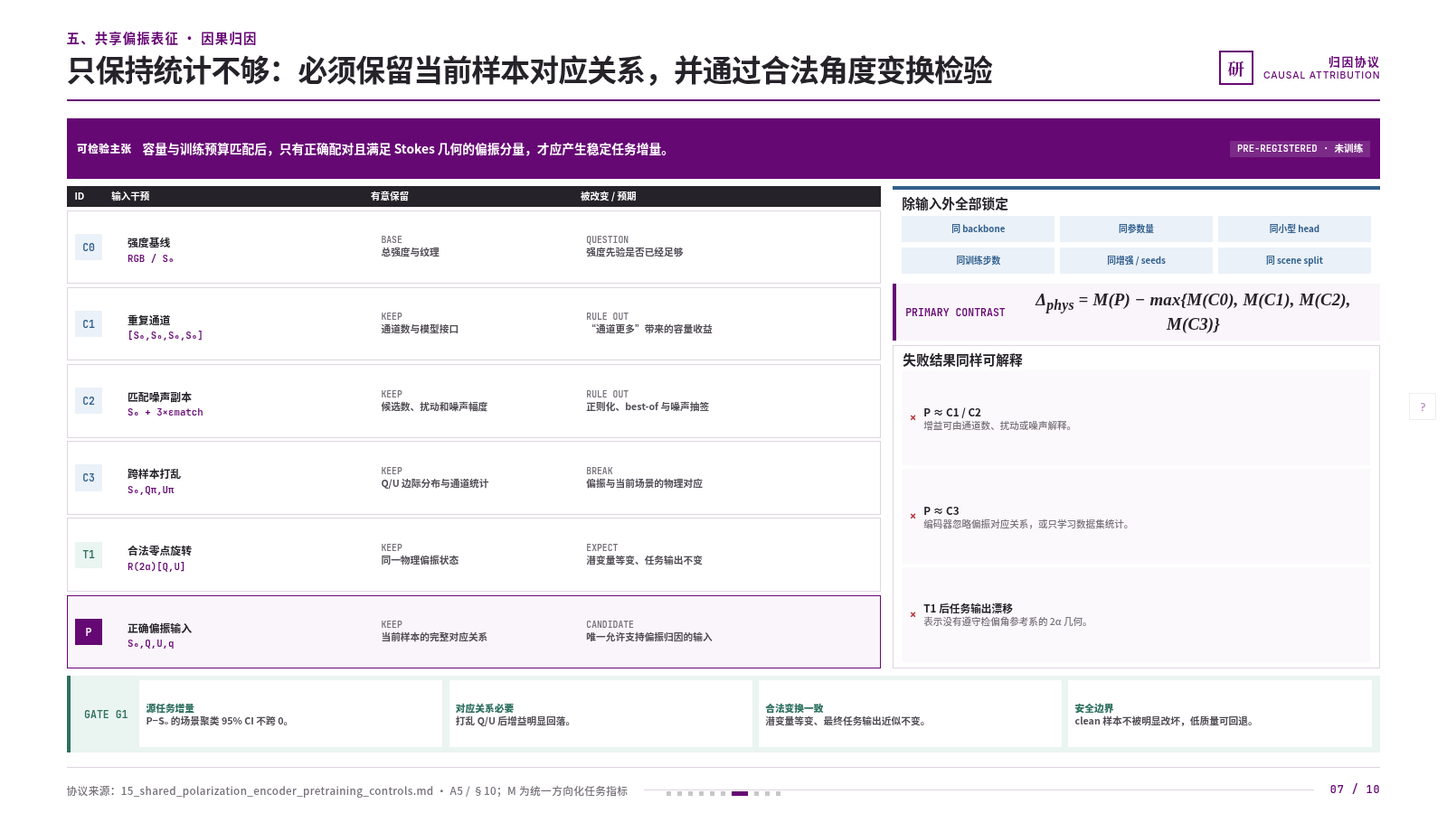
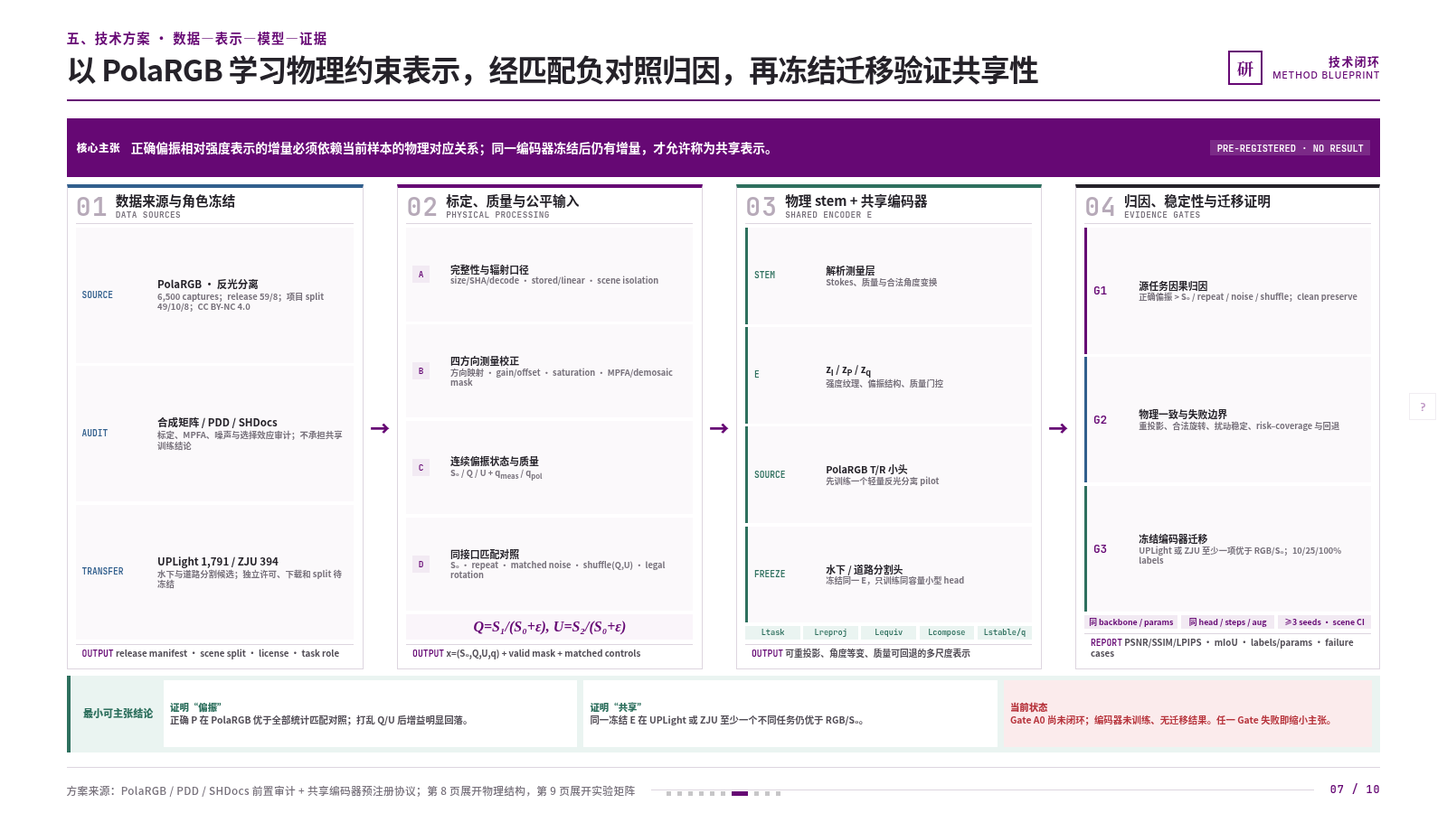
docs: add end-to-end method blueprint

diff --git a/demo/tsinghua-ppt/index.html b/demo/tsinghua-ppt/index.html
@@ -799,42 +799,52 @@
   .next-path.months .next-step{grid-template-columns:4.3em 1fr auto}
   .next-path.months .next-step .no{white-space:nowrap}
 
-  /* 07 · 偏振因果归因：匹配对照与干预 */
-  .attribution-layout{height:100%;display:grid;grid-template-columns:1fr;grid-template-rows:7.4vh minmax(0,1fr) 9.4vh;gap:.85vh}
-  .attribution-hypothesis{display:grid;grid-template-columns:auto 1fr auto;gap:.75vw;align-items:center;padding:.7vh .72vw;background:var(--accent);color:#fff}
-  .attribution-hypothesis>strong{font:800 clamp(11px,.72vw,14px)/1.15 var(--mono);letter-spacing:.05em}
-  .attribution-hypothesis>span{font:700 clamp(13px,.86vw,17px)/1.28 var(--sans)}
-  .attribution-hypothesis>em{padding:.4vh .48vw;background:rgba(255,255,255,.14);font:750 clamp(10px,.66vw,13px)/1 var(--mono);font-style:normal;white-space:nowrap}
-  .attribution-body{min-height:0;display:grid;grid-template-columns:62% 1fr;gap:.78vw}
-  .control-ledger{min-height:0;display:grid;grid-template-rows:auto repeat(6,1fr);gap:.4vh}
-  .control-ledger-head,.control-ledger-row{display:grid;grid-template-columns:3.1em 1.12fr .9fr 1.3fr;gap:.5vw;align-items:center}
-  .control-ledger-head{padding:.62vh .55vw;background:var(--ink);color:#fff;font:750 clamp(10px,.66vw,13px)/1.15 var(--sans)}
-  .control-ledger-row{padding:.48vh .55vw;border:1px solid var(--line);background:#fff}
-  .control-ledger-row .cid{display:grid;place-items:center;width:2.55em;aspect-ratio:1;background:var(--info-soft);color:var(--info);font:800 clamp(11px,.72vw,14px)/1 var(--mono)}
-  .control-ledger-row.transform .cid{background:var(--success-soft);color:var(--success)}
-  .control-ledger-row.candidate{border-color:var(--accent);background:var(--accent-pale)}
-  .control-ledger-row.candidate .cid{background:var(--accent);color:#fff}
-  .control-ledger-row strong{font:750 clamp(11px,.74vw,14px)/1.18 var(--sans)}
-  .control-ledger-row code{display:block;margin-top:.18vh;color:var(--accent);font:650 clamp(10px,.67vw,13px)/1.15 var(--mono)}
-  .control-ledger-row span{color:var(--ink-soft);font:600 clamp(10px,.67vw,13px)/1.25 var(--sans)}
-  .control-ledger-row span b{display:block;margin-bottom:.12vh;color:var(--muted);font:700 clamp(9px,.61vw,12px)/1 var(--mono)}
-  .attribution-rules{min-height:0;display:grid;grid-template-rows:auto auto 1fr;gap:.55vh}
-  .fairness-card{padding:.72vh .65vw;border-top:4px solid var(--info);background:#fff}
-  .fairness-card h2,.attribution-readout h2{font:750 clamp(14px,.92vw,18px)/1.18 var(--sans)}
-  .fairness-grid{display:grid;grid-template-columns:repeat(3,1fr);gap:.35vw;margin-top:.58vh}
-  .fairness-grid span{display:grid;place-items:center;min-height:3.25vh;padding:.38vh .28vw;background:var(--info-soft);color:var(--info);text-align:center;font:750 clamp(9px,.61vw,12px)/1.15 var(--sans)}
-  .attribution-equation{display:grid;grid-template-columns:auto 1fr;gap:.7vw;align-items:center;padding:.75vh .65vw;border-left:4px solid var(--accent);background:var(--accent-pale)}
-  .attribution-equation strong{color:var(--accent);font:800 clamp(11px,.72vw,14px)/1.15 var(--mono)}
-  .attribution-equation .math{font:italic 600 clamp(17px,1.18vw,23px)/1.2 var(--equation);text-align:center}
-  .attribution-readout{display:grid;grid-template-rows:auto repeat(3,1fr);gap:.42vh;padding:.7vh .65vw;background:#fff;border:1px solid var(--line)}
-  .readout-row{display:grid;grid-template-columns:auto 1fr;gap:.48vw;align-items:center;padding:.45vh .45vw;background:var(--paper-soft)}
-  .readout-row .mark{color:var(--danger);font:800 clamp(13px,.86vw,17px)/1 var(--mono)}
-  .readout-row strong{display:block;font:750 clamp(11px,.73vw,14px)/1.15 var(--sans)}
-  .readout-row p{margin-top:.18vh;color:var(--muted);font:550 clamp(10px,.66vw,13px)/1.25 var(--sans)}
-  .attribution-gate{display:grid;grid-template-columns:auto repeat(4,1fr);gap:.45vw;align-items:stretch;padding:.58vh .62vw;background:var(--success-soft);border-left:4px solid var(--success)}
-  .attribution-gate>strong{display:grid;place-items:center;padding:0 .35vw;color:var(--success);font:800 clamp(11px,.72vw,14px)/1.15 var(--mono)}
-  .gate-proof{display:grid;align-content:center;padding:.42vh .45vw;background:#fff;color:var(--ink-soft);font:650 clamp(10px,.67vw,13px)/1.22 var(--sans)}
-  .gate-proof b{display:block;margin-bottom:.14vh;color:var(--success)}
+  /* 07 · 技术方案总览：数据—处理—编码—证明 */
+  .method-blueprint-layout{height:100%;display:grid;grid-template-columns:1fr;grid-template-rows:7.2vh minmax(0,1fr) 9.4vh;gap:.82vh}
+  .blueprint-claim{display:grid;grid-template-columns:auto 1fr auto;gap:.72vw;align-items:center;padding:.66vh .7vw;background:var(--accent);color:#fff}
+  .blueprint-claim strong{font:800 clamp(11px,.72vw,14px)/1.15 var(--mono);letter-spacing:.05em}
+  .blueprint-claim span{font:700 clamp(13px,.86vw,17px)/1.28 var(--sans)}
+  .blueprint-claim em{padding:.38vh .46vw;background:rgba(255,255,255,.14);font:750 clamp(10px,.65vw,12px)/1 var(--mono);font-style:normal;white-space:nowrap}
+  .blueprint-flow{min-height:0;display:grid;grid-template-columns:1.05fr auto 1.08fr auto 1.08fr auto 1.08fr;gap:.48vw;align-items:stretch}
+  .blueprint-arrow{display:grid;place-items:center;color:var(--accent);font:800 clamp(20px,1.38vw,27px)/1 var(--sans)}
+  .blueprint-stage{min-height:0;display:grid;grid-template-rows:auto minmax(0,1fr) auto;gap:.5vh;padding:.66vh .58vw;border:1px solid var(--line);border-top:4px solid var(--info);background:#fff}
+  .blueprint-stage.process{border-top-color:var(--accent)}.blueprint-stage.model{border-top-color:var(--success)}.blueprint-stage.proof{border-top-color:var(--ink)}
+  .blueprint-stage-head{display:grid;grid-template-columns:auto 1fr;gap:.5vw;align-items:center;padding-bottom:.4vh;border-bottom:1px solid var(--line)}
+  .blueprint-stage-head .no{color:var(--line-strong);font:800 clamp(24px,1.75vw,34px)/1 var(--mono)}
+  .blueprint-stage-head h2{font:750 clamp(14px,.92vw,18px)/1.15 var(--sans)}
+  .blueprint-stage-head span{display:block;margin-top:.18vh;color:var(--muted);font:700 clamp(9px,.59vw,11px)/1 var(--mono);letter-spacing:.04em}
+  .blueprint-stage-body{min-height:0;display:grid;align-content:stretch;gap:.42vh}
+  .blueprint-stage.data .blueprint-stage-body{grid-template-rows:repeat(3,1fr)}
+  .blueprint-stage.process .blueprint-stage-body,.blueprint-stage.model .blueprint-stage-body,.blueprint-stage.proof .blueprint-stage-body{grid-template-rows:minmax(0,1fr) auto}
+  .source-group{display:grid;grid-template-columns:4.8em 1fr;gap:.42vw;align-items:center;padding:.5vh .42vw;background:var(--paper-soft)}
+  .source-group b{color:var(--info);font:800 clamp(9px,.6vw,11px)/1.1 var(--mono)}
+  .source-group strong{display:block;font:750 clamp(11px,.72vw,14px)/1.15 var(--sans)}
+  .source-group span{display:block;margin-top:.18vh;color:var(--muted);font:600 clamp(9px,.59vw,11px)/1.2 var(--sans)}
+  .process-stack{display:grid;grid-template-rows:repeat(4,1fr);gap:.38vh;min-height:0}
+  .process-step{display:grid;grid-template-columns:2.2em 1fr;gap:.42vw;align-items:center;padding:.46vh .42vw;background:var(--paper-soft)}
+  .process-step b{display:grid;place-items:center;width:2em;aspect-ratio:1;background:var(--accent-soft);color:var(--accent);font:800 clamp(9px,.59vw,11px)/1 var(--mono)}
+  .process-step strong{display:block;font:750 clamp(10px,.68vw,13px)/1.14 var(--sans)}
+  .process-step span{display:block;margin-top:.15vh;color:var(--muted);font:600 clamp(9px,.58vw,11px)/1.17 var(--sans)}
+  .blueprint-formula{display:grid;place-items:center;padding:.55vh .4vw;background:var(--accent-pale);color:var(--accent);font:italic 650 clamp(15px,1vw,19px)/1.15 var(--equation);text-align:center}
+  .mini-model-flow{display:grid;grid-template-rows:repeat(4,1fr);gap:.38vh;min-height:0}
+  .mini-model-node{display:grid;grid-template-columns:4.5em 1fr;gap:.45vw;align-items:center;padding:.48vh .42vw;background:var(--paper-soft);border-left:3px solid var(--success)}
+  .mini-model-node b{color:var(--success);font:800 clamp(9px,.6vw,11px)/1.1 var(--mono)}
+  .mini-model-node strong{display:block;font:750 clamp(10px,.68vw,13px)/1.14 var(--sans)}
+  .mini-model-node span{display:block;margin-top:.16vh;color:var(--muted);font:600 clamp(9px,.58vw,11px)/1.17 var(--sans)}
+  .loss-mini-strip{display:grid;grid-template-columns:repeat(5,1fr);gap:.22vw}.loss-mini-strip span{padding:.32vh .18vw;background:var(--success-soft);color:var(--success);text-align:center;font:750 clamp(8px,.54vw,10px)/1.08 var(--mono)}
+  .proof-mini-stack{display:grid;grid-template-rows:repeat(3,1fr);gap:.4vh;min-height:0}
+  .proof-mini{display:grid;grid-template-columns:2.7em 1fr;gap:.45vw;align-items:center;padding:.48vh .42vw;background:var(--paper-soft);border-left:3px solid var(--accent)}
+  .proof-mini:nth-child(2){border-left-color:var(--info)}.proof-mini:nth-child(3){border-left-color:var(--success)}
+  .proof-mini .gid{color:var(--accent);font:800 clamp(12px,.8vw,15px)/1 var(--mono)}
+  .proof-mini strong{display:block;font:750 clamp(10px,.68vw,13px)/1.14 var(--sans)}
+  .proof-mini span{display:block;margin-top:.15vh;color:var(--muted);font:600 clamp(9px,.58vw,11px)/1.18 var(--sans)}
+  .proof-fairness{display:grid;grid-template-columns:repeat(3,1fr);gap:.22vw}.proof-fairness span{padding:.32vh .2vw;background:var(--accent-soft);color:var(--accent);text-align:center;font:750 clamp(8px,.55vw,10px)/1.08 var(--sans)}
+  .blueprint-output{padding:.46vh .42vw;background:#fff;border-top:1px solid var(--line);color:var(--ink-soft);font:650 clamp(9px,.61vw,11px)/1.2 var(--sans)}
+  .blueprint-output b{color:var(--accent);font-family:var(--mono)}
+  .blueprint-bottom{display:grid;grid-template-columns:auto 1.18fr 1.18fr 1.05fr;gap:.42vw;align-items:stretch;padding:.58vh .6vw;background:var(--success-soft);border-left:4px solid var(--success)}
+  .blueprint-bottom>strong{display:grid;place-items:center;padding:0 .3vw;color:var(--success);font:800 clamp(10px,.69vw,13px)/1.15 var(--mono);text-align:center}
+  .minimum-proof{display:grid;align-content:center;padding:.44vh .46vw;background:#fff;color:var(--ink-soft);font:650 clamp(10px,.65vw,12px)/1.23 var(--sans)}.minimum-proof b{display:block;margin-bottom:.15vh;color:var(--success)}
+  .minimum-proof.status{background:var(--danger-soft);color:var(--danger)}.minimum-proof.status b{color:var(--danger)}
 
   /* 08 · 物理约束共享编码器 */
   .physics-encoder-layout{height:100%;display:grid;grid-template-columns:1fr;grid-template-rows:7.2vh 22.5vh minmax(0,1fr) 8.4vh;gap:.82vh}
@@ -1175,23 +1185,21 @@
   </div></main><footer class="thu-footer"><span>SHDocs 真实 DoFP · C2 全局统计匹配 · C3 噪声零对照 · C1 密集虚拟角候选控制</span><span class="thu-footer-line"></span><span class="thu-page-no">06 / 10</span></footer></div>
 </section>
 
-<section class="slide" data-layout="THU12" data-animate="academic" data-slide-id="polarization-attribution">
-  <div class="thu-page"><header class="thu-header"><div><div class="thu-section">五、共享偏振表征 · 因果归因</div><h1 class="thu-title">只保持统计不够：必须保留当前样本对应关系，并通过合法角度变换检验</h1></div><div class="thu-brand"><div class="thu-brand-mark">研</div><div class="thu-brand-copy"><strong>归因协议</strong><span>Causal Attribution</span></div></div></header>
-  <main class="thu-content tight"><div class="attribution-layout experiment-layout">
-    <div class="attribution-hypothesis" data-anim><strong>可检验主张</strong><span>容量与训练预算匹配后，只有正确配对且满足 Stokes 几何的偏振分量，才应产生稳定任务增量。</span><em>PRE-REGISTERED · 未训练</em></div>
-    <div class="attribution-body" data-anim>
-      <div class="control-ledger"><div class="control-ledger-head"><span>ID</span><span>输入干预</span><span>有意保留</span><span>被改变 / 预期</span></div>
-        <article class="control-ledger-row"><span class="cid">C0</span><div><strong>强度基线</strong><code>RGB / S₀</code></div><span><b>BASE</b>总强度与纹理</span><span><b>QUESTION</b>强度先验是否已经足够</span></article>
-        <article class="control-ledger-row"><span class="cid">C1</span><div><strong>重复通道</strong><code>[S₀,S₀,S₀,S₀]</code></div><span><b>KEEP</b>通道数与模型接口</span><span><b>RULE OUT</b>“通道更多”带来的容量收益</span></article>
-        <article class="control-ledger-row"><span class="cid">C2</span><div><strong>匹配噪声副本</strong><code>S₀ + 3×εmatch</code></div><span><b>KEEP</b>候选数、扰动和噪声幅度</span><span><b>RULE OUT</b>正则化、best-of 与噪声抽签</span></article>
-        <article class="control-ledger-row"><span class="cid">C3</span><div><strong>跨样本打乱</strong><code>S₀,Qπ,Uπ</code></div><span><b>KEEP</b>Q/U 边际分布与通道统计</span><span><b>BREAK</b>偏振与当前场景的物理对应</span></article>
-        <article class="control-ledger-row transform"><span class="cid">T1</span><div><strong>合法零点旋转</strong><code>R(2α)[Q,U]</code></div><span><b>KEEP</b>同一物理偏振状态</span><span><b>EXPECT</b>潜变量等变、任务输出不变</span></article>
-        <article class="control-ledger-row candidate"><span class="cid">P</span><div><strong>正确偏振输入</strong><code>S₀,Q,U,q</code></div><span><b>KEEP</b>当前样本的完整对应关系</span><span><b>CANDIDATE</b>唯一允许支持偏振归因的输入</span></article>
-      </div>
-      <aside class="attribution-rules"><article class="fairness-card"><h2>除输入外全部锁定</h2><div class="fairness-grid"><span>同 backbone</span><span>同参数量</span><span>同小型 head</span><span>同训练步数</span><span>同增强 / seeds</span><span>同 scene split</span></div></article><div class="attribution-equation"><strong>PRIMARY CONTRAST</strong><div class="math">Δ<sub>phys</sub> = M(P) − max{M(C0), M(C1), M(C2), M(C3)}</div></div><article class="attribution-readout"><h2>失败结果同样可解释</h2><div class="readout-row"><span class="mark">×</span><div><strong>P ≈ C1 / C2</strong><p>增益可由通道数、扰动或噪声解释。</p></div></div><div class="readout-row"><span class="mark">×</span><div><strong>P ≈ C3</strong><p>编码器忽略偏振对应关系，或只学习数据集统计。</p></div></div><div class="readout-row"><span class="mark">×</span><div><strong>T1 后任务输出漂移</strong><p>表示没有遵守检偏角参考系的 2α 几何。</p></div></div></article></aside>
+<section class="slide" data-layout="THU11" data-animate="academic" data-slide-id="polarization-attribution">
+  <div class="thu-page"><header class="thu-header"><div><div class="thu-section">五、技术方案 · 数据—表示—模型—证据</div><h1 class="thu-title">以 PolaRGB 学习物理约束表示，经匹配负对照归因，再冻结迁移验证共享性</h1></div><div class="thu-brand"><div class="thu-brand-mark">研</div><div class="thu-brand-copy"><strong>技术闭环</strong><span>METHOD BLUEPRINT</span></div></div></header>
+  <main class="thu-content tight"><div class="method-blueprint-layout architecture-layout">
+    <div class="blueprint-claim" data-anim><strong>核心主张</strong><span>正确偏振相对强度表示的增量必须依赖当前样本的物理对应关系；同一编码器冻结后仍有增量，才允许称为共享表示。</span><em>PRE-REGISTERED · NO RESULT</em></div>
+    <div class="blueprint-flow" data-anim>
+      <article class="blueprint-stage data"><div class="blueprint-stage-head"><span class="no">01</span><div><h2>数据来源与角色冻结</h2><span>DATA SOURCES</span></div></div><div class="blueprint-stage-body"><div class="source-group"><b>SOURCE</b><div><strong>PolaRGB · 反光分离</strong><span>6,500 captures；release 59/8；项目 split 49/10/8；CC BY-NC 4.0</span></div></div><div class="source-group"><b>AUDIT</b><div><strong>合成矩阵 / PDD / SHDocs</strong><span>标定、MPFA、噪声与选择效应审计；不承担共享训练结论</span></div></div><div class="source-group"><b>TRANSFER</b><div><strong>UPLight 1,791 / ZJU 394</strong><span>水下与道路分割候选；独立许可、下载和 split 待冻结</span></div></div></div><div class="blueprint-output"><b>OUTPUT</b> release manifest · scene split · license · task role</div></article>
+      <span class="blueprint-arrow">→</span>
+      <article class="blueprint-stage process"><div class="blueprint-stage-head"><span class="no">02</span><div><h2>标定、质量与公平输入</h2><span>PHYSICAL PROCESSING</span></div></div><div class="blueprint-stage-body"><div class="process-stack"><div class="process-step"><b>A</b><div><strong>完整性与辐射口径</strong><span>size/SHA/decode · stored/linear · scene isolation</span></div></div><div class="process-step"><b>B</b><div><strong>四方向测量校正</strong><span>方向映射 · gain/offset · saturation · MPFA/demosaic mask</span></div></div><div class="process-step"><b>C</b><div><strong>连续偏振状态与质量</strong><span>S₀ / Q / U + q<sub>meas</sub> / q<sub>pol</sub></span></div></div><div class="process-step"><b>D</b><div><strong>同接口匹配对照</strong><span>S₀ · repeat · matched noise · shuffle(Q,U) · legal rotation</span></div></div></div><div class="blueprint-formula">Q=S₁/(S₀+ε), U=S₂/(S₀+ε)</div></div><div class="blueprint-output"><b>OUTPUT</b> x=(S₀,Q,U,q) + valid mask + matched controls</div></article>
+      <span class="blueprint-arrow">→</span>
+      <article class="blueprint-stage model"><div class="blueprint-stage-head"><span class="no">03</span><div><h2>物理 stem + 共享编码器</h2><span>SHARED ENCODER E</span></div></div><div class="blueprint-stage-body"><div class="mini-model-flow"><div class="mini-model-node"><b>STEM</b><div><strong>解析测量层</strong><span>Stokes、质量与合法角度变换</span></div></div><div class="mini-model-node"><b>E</b><div><strong>z<sub>I</sub> / z<sub>P</sub> / z<sub>q</sub></strong><span>强度纹理、偏振结构、质量门控</span></div></div><div class="mini-model-node"><b>SOURCE</b><div><strong>PolaRGB T/R 小头</strong><span>先训练一个轻量反光分离 pilot</span></div></div><div class="mini-model-node"><b>FREEZE</b><div><strong>水下 / 道路分割头</strong><span>冻结同一 E，只训练同容量小型 head</span></div></div></div><div class="loss-mini-strip"><span>Ltask</span><span>Lreproj</span><span>Lequiv</span><span>Lcompose</span><span>Lstable/q</span></div></div><div class="blueprint-output"><b>OUTPUT</b> 可重投影、角度等变、质量可回退的多尺度表示</div></article>
+      <span class="blueprint-arrow">→</span>
+      <article class="blueprint-stage proof"><div class="blueprint-stage-head"><span class="no">04</span><div><h2>归因、稳定性与迁移证明</h2><span>EVIDENCE GATES</span></div></div><div class="blueprint-stage-body"><div class="proof-mini-stack"><div class="proof-mini"><span class="gid">G1</span><div><strong>源任务因果归因</strong><span>正确偏振 &gt; S₀ / repeat / noise / shuffle；clean preserve</span></div></div><div class="proof-mini"><span class="gid">G2</span><div><strong>物理一致与失败边界</strong><span>重投影、合法旋转、扰动稳定、risk–coverage 与回退</span></div></div><div class="proof-mini"><span class="gid">G3</span><div><strong>冻结编码器迁移</strong><span>UPLight 或 ZJU 至少一项优于 RGB/S₀；10/25/100% labels</span></div></div></div><div class="proof-fairness"><span>同 backbone / params</span><span>同 head / steps / aug</span><span>≥3 seeds · scene CI</span></div></div><div class="blueprint-output"><b>REPORT</b> PSNR/SSIM/LPIPS · mIoU · labels/params · failure cases</div></article>
     </div>
-    <div class="attribution-gate" data-anim><strong>GATE G1</strong><div class="gate-proof"><b>源任务增量</b>P−S₀ 的场景聚类 95% CI 不跨 0。</div><div class="gate-proof"><b>对应关系必要</b>打乱 Q/U 后增益明显回落。</div><div class="gate-proof"><b>合法变换一致</b>潜变量等变、最终任务输出近似不变。</div><div class="gate-proof"><b>安全边界</b>clean 样本不被明显改坏，低质量可回退。</div></div>
-  </div></main><footer class="thu-footer"><span>协议来源：15_shared_polarization_encoder_pretraining_controls.md · A5 / §10；M 为统一方向化任务指标</span><span class="thu-footer-line"></span><span class="thu-page-no">07 / 10</span></footer></div>
+    <div class="blueprint-bottom" data-anim><strong>最小可主张结论</strong><div class="minimum-proof"><b>证明“偏振”</b>正确 P 在 PolaRGB 优于全部统计匹配对照；打乱 Q/U 后增益明显回落。</div><div class="minimum-proof"><b>证明“共享”</b>同一冻结 E 在 UPLight 或 ZJU 至少一个不同任务仍优于 RGB/S₀。</div><div class="minimum-proof status"><b>当前状态</b>Gate A0 尚未闭环；编码器未训练、无迁移结果。任一 Gate 失败即缩小主张。</div></div>
+  </div></main><footer class="thu-footer"><span>方案来源：PolaRGB / PDD / SHDocs 前置审计 + 共享编码器预注册协议；第 8 页展开物理结构，第 9 页展开实验矩阵</span><span class="thu-footer-line"></span><span class="thu-page-no">07 / 10</span></footer></div>
 </section>
 
 <section class="slide soft" data-layout="THU11" data-animate="academic" data-slide-id="physics-constrained-encoder">
@@ -1228,7 +1236,7 @@ const SPEAKER_NOTES = [
   {id:'polarized-reflection-networks',title:'偏振反光网络与采集方案',section:'问题与文献',minutes:1.7,purpose:'同口径比较偏振输入、强度/偏振恢复层级与采集方案',talk:['ReflectNet 用旋转偏振片顺序采集三角度，最终恢复 RGB 强度 T/R，不恢复逐角偏振层','Lei 2020 使用单色 DoFP 单曝光四方向，先估计强度 R 再估计强度 T，并以黑布 M−R 方案采集真值','Multi-bounce 使用彩色 DoFP，逐角预测 polarized T/R，再以 Stokes/Mueller 多次反射模型重投影四方向','Deng 2026 只确认 cross dual-stream、T/R 与 polarization restoration 方向；输入、监督、相机和数据仍待全文核查','输入含偏振不等于输出保留物理；后续方法必须报告采集硬件、输出层级和重投影一致性'],transition:'文献说明“偏振网络”不能只看输入标签，下面回顾路线 1 的可测前提'},
   {id:'route1-foundation',title:'探索路线 1 · 三段误差源审计',section:'探索路线 1',minutes:1.3,purpose:'从任务读出、仪器响应和 DoFP 空间重建三段逆向定位偏振系统中的独立误差源',talk:['这不是把三项百分比相加的统一误差预算；E0、E1-a、E1-b 使用不同数据与指标，作用是逐段锁定混杂因素','E0 是电脑字体、GT ROI 与字符白名单下的软件 sanity：EasyOCR 的 CER 只有 4.20%，但字符串长度和易混字符会把整串 Exact 放大到 60.78%，它不是实拍喷码上限','E1-a 把测量写成 m=Areal·s+b+ε；用已知合成 Stokes 的前 2,500 组估计 A,b，再在留出的 2,500 组反演，RMSE 从理想矩阵的 0.01147 降到 0.00260','E1-b 模拟 2×2 MPFA 每像素只测一个方向，再比较完整四方向、最近邻和双线性；伪彩图中色相是 AoLP、饱和度是 DoLP、亮度是 S0','双线性减轻但没有消除空间插值误差，所以 OCR backend、标定矩阵和 demosaic 都必须冻结或进入后续消融，不能被模型增益吸收'],transition:'三段测量链误差被显式化后，下一页继续检验 E2 的 Oracle gap 是否只是候选数量、图像统计和噪声选择效应',cue:'按左到右讲三段误差源；E1-b 先指 2×2 排列，再读伪彩图图例和 40 场景均值表'},
   {id:'route1-hypothesis-chain',title:'E2–C3–C1 · 方向归因与选择',section:'探索路线 1',minutes:1.3,purpose:'把真实 DoFP 方向差异、亮度统计、噪声选择下限和密集候选控制串成一条归因—选择—决策链',talk:['E2 的真实 DoFP 配对结果先建立观察：同一 ROI、字符串和高光条件下，Oracle–Fixed 在 Tesseract / EasyOCR 上为 +6.58 / +2.51 pp，说明四方向观测会改变 OCR 输出；绝对正确率仍受 1–376 字符和严格 Exact 压低','C2 把每个 ROI 的四方向匹配到共同 mean/std 或 pooled histogram 后重新 OCR；Tesseract gap 仍为 6.09 / 5.61 pp，Easy 为 2.51 / 3.87 pp，因此全局亮度和对比度不是主要解释，但局部高光结构仍被保留','C3 固定 I0，只加入三个独立噪声副本；GT best-of 已产生 +2.37 / +1.81 pp，相当于真实 gap 的 36% / 72%。这说明噪声与 OCR 稳定性会制造“最优候选”，输入质量必须进入方法主体','用真实 gap 对比当前噪声零对照后，Tesseract 仍剩 +4.21 pp 且区间不跨 0，Easy 只剩 +0.70 pp 且区间跨 0；因此偏振相关剩余信号是条件性、后端相关的，不能把全部剩余直接叫作物理增益','基础 confidence selector 对 Tesseract 只兑现 Oracle gap 的 19%，Easy 还下降；C1 的36角固定策略不优于 raw，而候选数只把 Oracle gap 放大到 14.41 / 5.71 pp。C1 没有训练36路 selector，结论是单纯扩大搜索空间无解，下一步应用校准 Stokes/Q,U 与饱和、SNR、噪声、demosaic 质量 q 共同约束可部署表示或 Selector'],transition:'方向差异、输入质量和候选选择已经分开后，下一页进一步用匹配输入干预定义什么结果才允许归因于当前样本的真实偏振信息',cue:'按左侧 E2 → 右侧 C2/C3/剩余信号 → 底部 Selector/C1 → 红色决策条的顺序讲'},
-  {id:'polarization-attribution',title:'真实偏振的因果归因协议',section:'共享偏振表征',minutes:1.2,purpose:'用匹配输入干预区分当前样本偏振信息与通道数、噪声、统计偏差和角度坐标系',talk:['C0 到 C3 不是随意喂错误图片，而是依次保持强度、通道数、噪声或 Q/U 边际分布，只破坏一个待验证因素','最关键的是跨样本打乱 Q/U：总体数值统计仍在，但与当前场景的物理对应关系被破坏','T1 是合法零点旋转，不应导致任务输出变化；它与非物理通道交换必须区分','所有输入使用同 backbone、参数、head、训练步数、增强、seeds 和 scene split','只有正确偏振优于全部对照、打乱后回落且合法旋转通过，才允许把增量归因于偏振'],transition:'归因协议说明要比较什么，下一页说明编码器内部必须保留什么物理结构',cue:'先讲 C3，再回看 C0–C2，最后读底部 Gate G1'},
+  {id:'polarization-attribution',title:'技术方案 · 数据到证据闭环',section:'共享偏振表征',minutes:1.3,purpose:'用一页总览数据来源、物理处理、共享编码器与三道证据 Gate，建立第 8–9 页的执行导航',talk:['数据按角色冻结：PolaRGB 是 6,500 组反光分离源任务并使用项目 49/10/8 场景划分；合成矩阵、PDD 和 SHDocs 只做标定、MPFA、噪声与选择效应审计；UPLight 与 ZJU 是许可和 split 待核查的冻结迁移候选','数据处理先冻结完整性、scene isolation 与 stored/linear 口径，再校正方向映射、gain/offset、饱和与 MPFA；主表示采用 S0/Q/U 和分开的 q_meas、q_pol','重复 S0、匹配噪声、跨样本打乱 Q/U 与合法零点旋转从数据接口阶段生成，确保负对照不是训练后补解释','模型由解析 physical stem、共享编码器 E 和同容量小型任务头组成；先训练 PolaRGB T/R pilot，再冻结同一 E 接水下或道路分割头','结果必须依次通过 G1 源任务归因、G2 物理一致与失败边界、G3 冻结迁移；当前仅完成预注册，编码器和迁移均无结果'],transition:'总体闭环确定后，下一页展开 physical stem、双质量变量、共享潜表示与四类损失如何具体实现',cue:'沿 01→04 从左到右讲，最后只读底部“证明偏振 / 证明共享 / 当前状态”三条'},
   {id:'physics-constrained-encoder',title:'物理约束共享编码器',section:'共享偏振表征',minutes:1.2,purpose:'定义解析 stem、双质量变量、共享表示和四类可验证约束',talk:['主输入使用 S0、Q、U，避免直接输入低 DoLP 区不稳定的裸 AoLP','q_meas 表示测量是否可信，q_pol 表示偏振是否有信息量；高 DoLP 但饱和与低 DoLP 但强度可信必须区分','编码器分出强度表示 zI、方向等变偏振表示 zP 和质量门控 zq，再连接小型任务头','重投影约束防止网络丢掉四方向物理，参考系等变约束角度几何，层重组约束源任务解释观测','扰动稳定先用冻结噪声模型；真实重复曝光只能在 H0 相机试采后验证，当前不冒充已有结果'],transition:'有了方法结构后，下一页给出怎样训练、怎样冻结、什么结果才算有用'},
   {id:'encoder-proof-plan',title:'共享编码器实验与通过判据',section:'共享偏振表征',minutes:1.2,purpose:'用 G1 源任务归因、G2 稳定性和 G3 冻结迁移证明编码器有用',talk:['G1 在 PolaRGB 49/10/8 场景划分上，用同一小型 decoder 比较全部输入对照，并报告场景聚类区间与 clean preservation','G2 按 DoLP、饱和、反射强度、easy/hard 和 MPFA 分组，检验重投影、输出漂移和风险覆盖关系','G3 冻结同一个编码器，只训练相同容量分割头，并比较 10%、25%、100% 标签量','共享的核心证据是 UPLight 或 ZJU 至少一个任务优于 S0/RGB；偏振的核心证据是打乱 Q/U 后回落','UPLight 与 ZJU 仍需先核查独立许可和冻结 split；任一 Gate 失败就缩小主张，不转向联合多任务或 diffusion'],transition:'最后用已完成、未完成和唯一下一项证据收束',cue:'从左侧 G1→G3 讲执行顺序，再读右侧矩阵和底部 minimum claim'},
   {id:'conclusion',title:'结论与讨论',section:'收束',minutes:0.6,purpose:'收束候选选择反例、物理编码器契约和冻结迁移证据标准',talk:['路线 1 最重要的修正是：Oracle gap 混入候选数量、OCR 不稳定和噪声选择效应，不能当偏振证据','新方案不再逐样本挑一张图，而是用 S0/Q/U/q 学习可重投影、等变、可回退的共享表示','共享编码器尚未训练；下一项证据是 Gate A0 通过后的轻量源任务 pilot，而不是更大的网络','请重点评价 C0–C3 是否足以归因、四类物理约束是否合理、G1–G3 是否真正证明迁移'],transition:'进入提问与讨论',cue:'停顿，指向右侧 NOT TRAINED / NOT STARTED 状态'}

diff --git a/demo/tsinghua-ppt/images/SOURCES.md b/demo/tsinghua-ppt/images/SOURCES.md
@@ -52,7 +52,7 @@ BRDF 图均为 HTML/CSS/无文字 SVG 的本项目原创机制示意，不是相
 | 4 | ReflectNet、Lei 2020、Multi-bounce 与 Deng 2026 的偏振/强度恢复层级及采集方案 | 上述三张论文架构图；对应 ECCV 2018、CVPR 2020、ECCV 2020 原文；Deng et al. 2026 仅使用出版元数据与已核实方向，具体输入、监督和采集字段按“待全文核查”处理；完整审计见 `polar_representation/LITERATURE.md` |
 | 5 | 从任务读出、仪器响应到 DoFP 重建的三段误差源审计：E0 合成 OCR sanity、E1-a 已知 Stokes 仪器矩阵自检、E1-b PDD MPFA/AoLP 误差 | `e0_clean_code_sanity.json`、`e1_synthetic_instrument_recovery.json`、`e1_pdd_simple_baselines.json`；三段使用不同数据与指标，页面明确禁止直接相加为统一“误差份额” |
 | 6 | E2 真实四方向配对增量 → C2 全局亮度/对比度匹配 → C3 噪声选择下限与后端相关剩余信号 → 基础 Selector 和 C1 密集候选控制；由此导向“偏振物理 + 输入质量”联合先验 | 相机为 FLIR BFS-U3-51S5P / Sony IMX250MZR DoFP；公开方向图为作者/SDK 去马赛克后的 8-bit PNG；数字来自 `e0_e2_shdocs_easyocr_scale4.json`、`e0_e2_shdocs_tesseract_scale4.json`、`offline_extension_controls.json` 与 `shdocs_e2_string_length_audit_v1.json`；C1 未训练36路 Selector，只比较固定策略、候选数量与 GT Oracle 上界 |
-| 7 | C0–C3 匹配输入干预、合法角度零点旋转与偏振归因 Gate G1 | `15_shared_polarization_encoder_pretraining_controls.md` A5、§10.5；该页为预注册协议，没有训练结果 |
+| 7 | “数据来源—物理处理—共享编码器—证据 Gate”技术闭环：PolaRGB 源任务，合成/PDD/SHDocs 审计，UPLight/ZJU 冻结迁移候选，`S₀/Q/U/q` 与匹配对照，以及 G1–G3 最小主张 | `polargb_release_v1.json`、`polargb_scene_split_v1.json`、`15_shared_polarization_encoder_pretraining_controls.md` A5、§6、§10；UPLight/ZJU 许可与 split 待核查；该页为预注册方案，没有训练或迁移结果 |
 | 8 | `S₀/Q/U` 解析 stem、`q_meas/q_pol`、共享编码器与重投影/等变/重组/稳定约束 | `15_shared_polarization_encoder_pretraining_controls.md` §10.2–10.3；`05_polarization_camera_physical_models.md` |
 | 9 | PolaRGB 源任务、扰动稳定和 UPLight/ZJU 冻结迁移三阶段实验矩阵 | `polargb_scene_split_v1.json`；`15_shared_polarization_encoder_pretraining_controls.md` §6、§10.4–10.5；UPLight/ZJU 许可与 split 仍待执行前核查 |
 | 10 | 路线 1 代理结果、拟议编码器契约与当前未训练状态总结 | 第 5–9 页上述证据与协议；“0 个已训练共享编码器”是当前项目状态，不是性能结果 |
